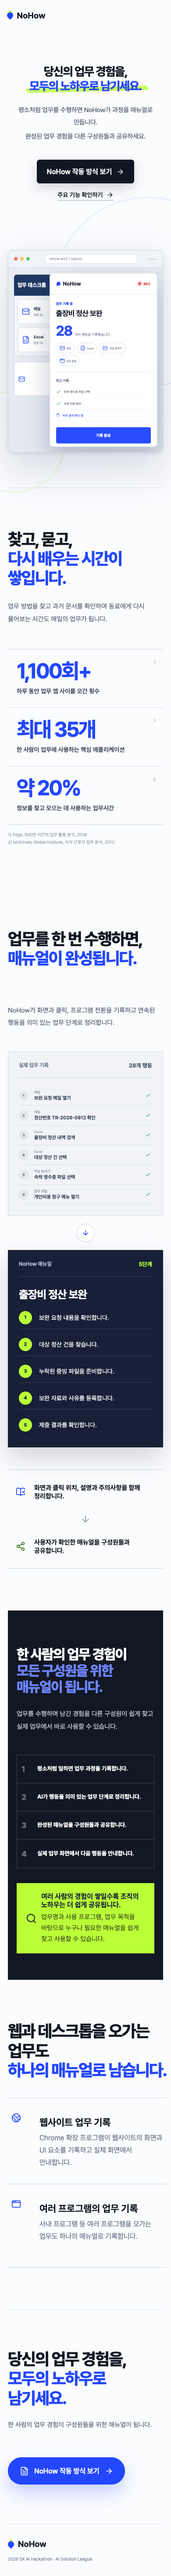
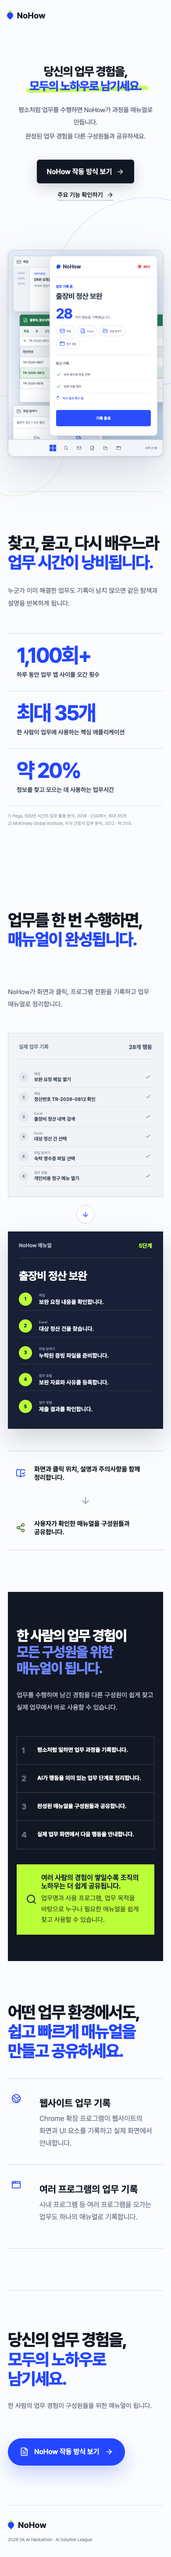
Refine NoHow problem and desktop story

diff --git a/src/styles.css b/src/styles.css
@@ -216,24 +216,33 @@ footer p { margin: 0; }footer small { justify-self: end; }
 .hero-section { grid-template-columns: .92fr 1.08fr; gap: 72px; }
 .hero-copy h1 { font-size: clamp(39px, 3.35vw, 51px); line-height: 1.14; }
 .hero-copy h1 .hero-highlight { font-size: 1em; line-height: inherit; }
-.nohow-browser-body { background: #e8ecf3; }
-.nohow-desktop-preview { position: absolute; inset: 0; padding: 24px 328px 24px 22px; color: #263247; background: linear-gradient(145deg, #e9edf3, #dfe5ed); }
-.desktop-preview-head { height: 48px; display: flex; align-items: center; justify-content: space-between; padding: 0 13px; color: #fff; background: #18335f; border-radius: 6px 6px 0 0; font-size: 10px; }
-.desktop-preview-head b { font-size: 12px; }
-.desktop-preview-head span { display: flex; align-items: center; gap: 6px; color: #dbe4f2; font-size: 8px; }
-.desktop-preview-head i { width: 7px; height: 7px; border-radius: 50%; background: #ff5d5d; box-shadow: 0 0 0 4px rgba(255,93,93,.14); }
-.desktop-app-grid { display: grid; grid-template-columns: 1fr 1fr; gap: 8px; padding: 13px; border: 1px solid #c8d0dc; border-top: 0; background: #f5f7fa; }
-.desktop-app-grid article { min-width: 0; min-height: 72px; display: flex; align-items: center; gap: 9px; padding: 11px; border: 1px solid #d5dbe5; background: #fff; box-shadow: 0 4px 12px rgba(33,48,78,.04); }
-.desktop-app-grid article svg { flex: 0 0 auto; color: var(--blue); }
-.desktop-app-grid article div { min-width: 0; display: grid; gap: 4px; }
-.desktop-app-grid article b { font-size: 9px; }
-.desktop-app-grid article small { overflow: hidden; color: #7c8799; font-size: 7px; text-overflow: ellipsis; white-space: nowrap; }
-.desktop-request-card { margin-top: 13px; min-height: 78px; display: flex; align-items: center; gap: 10px; padding: 13px; border: 1px solid #ccd4df; background: #fff; }
-.desktop-request-card > svg { flex: 0 0 auto; color: var(--blue); }
-.desktop-request-card div { min-width: 0; display: grid; gap: 5px; }
-.desktop-request-card b { overflow: hidden; font-size: 8px; text-overflow: ellipsis; white-space: nowrap; }
-.desktop-request-card span { color: #7d8796; font-size: 7px; }
-.nohow-capture-panel { position: absolute; top: 17px; right: 17px; bottom: 17px; width: 294px; z-index: 2; overflow: hidden; border: 1px solid #d5dbe5; border-radius: 9px; background: #fff; box-shadow: 0 20px 55px rgba(12,24,54,.25); }
+.windows-desktop-frame { position: relative; width: 100%; height: 565px; overflow: hidden; border: 1px solid #bcc7d6; border-radius: 13px; background: #dce7f4; box-shadow: 0 35px 90px rgba(29,47,92,.18), 0 3px 9px rgba(18,24,39,.08); transform: perspective(1500px) rotateY(-2deg) rotateX(1deg); }
+.windows-desktop-surface { position: absolute; inset: 0; overflow: hidden; color: #263247; background: radial-gradient(circle at 13% 18%, rgba(255,255,255,.8), transparent 24%), linear-gradient(138deg, #d9e8f7 0%, #eef4fa 47%, #b9d3ec 100%); }
+.windows-window { position: absolute; overflow: hidden; border: 1px solid #bfc9d6; border-radius: 6px; background: #fff; box-shadow: 0 12px 30px rgba(28,47,74,.2); font-size: 7px; }
+.windows-titlebar { height: 26px; display: flex; align-items: center; justify-content: space-between; padding: 0 8px; color: #3e4959; background: #f5f6f8; border-bottom: 1px solid #d9dee6; }
+.windows-titlebar > span { display: flex; align-items: center; gap: 5px; font-weight: 650; }
+.windows-titlebar small { color: #7d8795; font: 7px Arial, sans-serif; letter-spacing: .03em; }
+.window-mail { left: 17px; top: 16px; width: 315px; height: 128px; z-index: 1; }
+.mail-mock-body { height: calc(100% - 26px); display: grid; grid-template-columns: 38px 1fr; }
+.mail-mock-body aside { padding: 10px; background: #eef2f7; border-right: 1px solid #d8dee7; }
+.mail-mock-body aside i { display: block; height: 5px; margin-bottom: 7px; background: #c8d0dc; border-radius: 4px; }
+.mail-mock-body article { padding: 10px; display: grid; align-content: start; gap: 5px; }
+.mail-mock-body article small { color: var(--blue); }.mail-mock-body article b { font-size: 8px; }.mail-mock-body article p { margin: 0; color: #747f8f; }
+.window-excel { left: 44px; top: 151px; width: 360px; height: 201px; z-index: 3; }
+.excel-titlebar { color: #fff; background: #217346; border-color: #1d6740; }
+.excel-titlebar small { color: rgba(255,255,255,.8); }
+.excel-ribbon { height: 24px; display: flex; align-items: center; gap: 15px; padding: 0 9px; color: #526073; background: #f5f7f8; border-bottom: 1px solid #d5dbe3; }
+.excel-ribbon b { color: #217346; }.excel-formula { height: 22px; padding: 5px 9px; color: #617084; border-bottom: 1px solid #d8dee6; }
+.window-excel table { width: 100%; border-collapse: collapse; }.window-excel th,.window-excel td { padding: 7px 6px; border: 1px solid #d8dde5; text-align: left; }.window-excel th { color: #526071; background: #eef1f4; }.window-excel .excel-selected td { color: #1c5e3b; background: #e6f4eb; border-color: #7ab996; font-weight: 700; }
+.window-explorer { left: 18px; top: 369px; width: 205px; height: 130px; z-index: 4; }
+.explorer-path { height: 26px; padding: 8px; color: #6d7888; border-bottom: 1px solid #d9dfe7; }
+.explorer-files { display: grid; grid-template-columns: 1fr 1fr; gap: 6px; padding: 9px; }
+.explorer-files span { min-width: 0; display: grid; place-items: center; gap: 4px; padding: 7px 3px; color: #687486; text-align: center; }
+.explorer-files span.selected { color: var(--blue); background: #e9efff; outline: 1px solid #afc0ff; }
+.window-portal { left: 229px; top: 367px; width: 204px; height: 133px; z-index: 4; }
+.portal-titlebar { color: #fff; background: #18335f; border-color: #18335f; }.portal-titlebar small { color: rgba(255,255,255,.75); }
+.portal-mock-body { padding: 9px; display: grid; gap: 5px; }.portal-mock-body small { color: #7a8595; }.portal-mock-body b { font-size: 9px; }.portal-mock-body span { color: var(--blue); }.portal-mock-body button { height: 22px; border: 0; color: #fff; background: var(--blue); font-size: 7px; }
+.nohow-capture-panel { position: absolute; top: 17px; right: 17px; bottom: 52px; width: 294px; z-index: 10; overflow: hidden; border: 1px solid #d5dbe5; border-radius: 9px; background: #fff; box-shadow: 0 20px 55px rgba(12,24,54,.25); }
 .capture-panel-head { height: 48px; display: flex; align-items: center; justify-content: space-between; padding: 0 15px; border-bottom: 1px solid #e5e9ef; }
 .capture-live { display: flex; align-items: center; gap: 5px; color: #d84747; font-size: 8px; font-weight: 800; }
 .capture-live i { width: 7px; height: 7px; border-radius: 50%; background: #ef4f4f; box-shadow: 0 0 0 4px #fde7e7; }
@@ -253,16 +262,19 @@ footer p { margin: 0; }footer small { justify-self: end; }
 .capture-recent p.is-current { color: var(--blue); }
 .capture-recent p.is-current span { width: 8px; height: 8px; border: 2px solid #cbd4ff; border-top-color: var(--blue); border-radius: 50%; }
 .capture-panel-content > button { width: 100%; height: 37px; border: 0; border-radius: 4px; color: #fff; background: var(--blue); font-size: 9px; font-weight: 650; }
+.windows-taskbar { position: absolute; left: 0; right: 0; bottom: 0; height: 38px; z-index: 12; display: flex; align-items: center; justify-content: center; gap: 15px; color: #36516c; background: rgba(246,249,252,.92); border-top: 1px solid rgba(154,170,188,.55); box-shadow: 0 -5px 18px rgba(55,81,109,.08); backdrop-filter: blur(12px); }
+.windows-taskbar > svg { width: 15px; height: 15px; padding: 2px; border-radius: 3px; background: rgba(255,255,255,.75); }
+.windows-taskbar time { position: absolute; right: 13px; font-size: 7px; }
+.windows-start { width: 15px; height: 15px; display: grid; grid-template-columns: 1fr 1fr; gap: 1px; }
+.windows-start span { background: var(--blue); }
 
-.friction-section { grid-template-columns: .75fr 1.25fr; align-items: center; }
+.friction-section { grid-template-columns: .82fr 1.18fr; align-items: center; }
 .friction-copy .accent-line { color: var(--blue); }
 .friction-data { min-width: 0; }
-.friction-metrics { display: grid; grid-template-columns: repeat(3, 1fr); border-top: 1px solid #cfd6e1; border-bottom: 1px solid #cfd6e1; }
-.friction-metrics article { min-height: 208px; position: relative; padding: 31px 23px 25px; border-right: 1px solid #d7dde6; }
-.friction-metrics article:last-child { border-right: 0; }
-.friction-metrics strong { display: block; color: var(--blue); font-size: clamp(38px, 3.6vw, 54px); line-height: 1; letter-spacing: -.06em; white-space: nowrap; }
-.friction-metrics p { margin: 25px 0 0; color: #3e495c; font-size: 14px; font-weight: 650; line-height: 1.55; }
-.friction-metrics sup { position: absolute; top: 23px; right: 17px; color: #a5adba; font-size: 10px; }
+.friction-metrics { border-top: 1px solid #cfd6e1; }
+.friction-metrics article { min-height: 106px; display: grid; grid-template-columns: minmax(175px, .72fr) 1fr; gap: 28px; align-items: center; padding: 20px 18px; border-bottom: 1px solid #d7dde6; }
+.friction-metrics strong { display: block; color: var(--blue); font-size: clamp(39px, 3.7vw, 56px); line-height: 1; letter-spacing: -.06em; white-space: nowrap; }
+.friction-metrics p { margin: 0; color: #3e495c; font-size: 15px; font-weight: 650; line-height: 1.55; }
 .metric-sources { margin: 14px 0 0; padding: 0; list-style: none; color: #9aa3b1; font-size: 11px; line-height: 1.7; }
 .metric-sources a:hover { color: #687386; text-decoration: underline; text-underline-offset: 2px; }
 
@@ -277,9 +289,16 @@ footer p { margin: 0; }footer small { justify-self: end; }
 .event-list svg { color: #3b9a69; }
 .manual-card h3 { margin: 25px 0 13px; }
 .manual-card .focus-step-list p { min-height: 54px; }
+.manual-card .focus-step-list p > span { display: grid; gap: 3px; }
+.manual-card .focus-step-list small { color: #93a3bf; font-size: 8px; }
+.manual-card .focus-step-list b { color: #f2f5fa; font-size: 13px; font-weight: 650; }
 
 .learning-heading h2 .accent-line { color: #6d85ff; }
+.platform-section { grid-template-columns: 1fr; gap: 66px; }
+.platform-heading { align-items: center; text-align: center; }
 .platform-heading h2 { font-size: clamp(36px, 3.05vw, 47px); }
+.platform-list { display: grid; grid-template-columns: 1fr 1fr; }
+.platform-list article:first-child { border-right: 1px solid #cfd6e1; }
 
 /* Demo frame */
 .demo-shell { background: #e8ecf2; height: 100vh; min-width: 1100px; overflow: hidden; font-family: 'Pretendard Variable', Pretendard, sans-serif; }
@@ -376,7 +395,7 @@ footer p { margin: 0; }footer small { justify-self: end; }
   .demo-video-heading h2 { white-space: normal; }
   .learning-section { padding-left: 50px; padding-right: 50px; }
   .learning-flow { grid-template-columns: 1fr; }
-  .friction-metrics article { min-height: 176px; }
+  .friction-metrics article { min-height: 106px; }
 }
 @media (max-width: 700px) {
   .landing-nav { height: 70px; }.nav-links a { display: none; }.hero-section { width: calc(100% - 36px); padding: 55px 0 80px; min-height: 0; }.hero-copy h1 { font-size: 44px; }.hero-description { font-size: 15px; }.hero-actions { flex-direction: column; gap: 18px; }.browser-body { height: 420px; }.preview-panel { width: 75%; }.legacy-mini-body { grid-template-columns: 82px 1fr; }.human-badge { right: -4px; }
@@ -392,16 +411,15 @@ footer p { margin: 0; }footer small { justify-self: end; }
   .learning-heading h2 { font-size: 32px; }
   .platform-section { gap: 40px; }.platform-list article { padding-left: 8px; padding-right: 8px; }
   .final-cta-copy > p { font-size: 15px; }.final-cta-copy > p span { margin-bottom: 7px; }
-  .nohow-desktop-preview { padding: 16px 70% 16px 13px; }
-  .desktop-preview-head { padding: 0 8px; }.desktop-preview-head span { display: none; }
-  .desktop-app-grid { grid-template-columns: 1fr; padding: 8px; }.desktop-app-grid article { min-height: 56px; padding: 8px; }.desktop-app-grid article:nth-child(n+3) { display: none; }
-  .desktop-request-card { padding: 9px; }.desktop-request-card div { display: none; }
-  .nohow-capture-panel { top: 12px; right: 12px; bottom: 12px; width: 70%; }
+  .windows-desktop-frame { height: 470px; transform: none; }
+  .window-mail { left: 10px; top: 12px; }.window-excel { left: 25px; top: 145px; }.window-explorer { left: 10px; top: 352px; }.window-portal { display: none; }
+  .nohow-capture-panel { top: 12px; right: 12px; bottom: 46px; width: 70%; }
   .capture-panel-content { padding: 16px 14px; }.capture-panel-content > h3 { font-size: 17px; }.capture-count { margin: 14px 0 11px; }.capture-count strong { font-size: 32px; }
   .capture-apps span { font-size: 6px; }.capture-recent { margin: 13px 0; }.capture-recent p { min-height: 27px; font-size: 7px; }
-  .friction-metrics { grid-template-columns: 1fr; }.friction-metrics article { min-height: 132px; border-right: 0; border-bottom: 1px solid #d7dde6; padding: 25px 20px; }.friction-metrics article:last-child { border-bottom: 0; }.friction-metrics strong { font-size: 48px; }.friction-metrics p { margin-top: 12px; }.metric-sources { font-size: 10px; }
+  .friction-metrics article { min-height: 0; grid-template-columns: 1fr; gap: 10px; padding: 25px 20px; }.friction-metrics strong { font-size: 48px; }.friction-metrics p { font-size: 14px; }.metric-sources { font-size: 10px; }
   .event-capture-card,.manual-card { min-height: 0; }.event-list p { min-height: 45px; }.event-list p:nth-child(n+7) { display: none; }.manual-card .focus-step-list p { min-height: 51px; }
   .learning-flow h3 { white-space: normal; }
+  .platform-heading { align-items: flex-start; text-align: left; }.platform-list { grid-template-columns: 1fr; }.platform-list article:first-child { border-right: 0; }
   footer { width: calc(100% - 36px); grid-template-columns: 1fr; gap: 9px; padding: 30px 0; }footer small { justify-self: start; }.browser-frame { transform: none; }
 }
 

diff --git a/src/Landing.tsx b/src/Landing.tsx
@@ -34,11 +34,11 @@ const capturedEvents = [
 ]
 
 const manualSteps = [
-  '보완 요청 내용을 확인합니다.',
-  '대상 정산 건을 찾습니다.',
-  '누락된 증빙 파일을 준비합니다.',
-  '보완 자료와 사유를 등록합니다.',
-  '제출 결과를 확인합니다.',
+  ['메일', '보완 요청 내용을 확인합니다.'],
+  ['Excel', '대상 정산 건을 찾습니다.'],
+  ['파일 탐색기', '누락된 증빙 파일을 준비합니다.'],
+  ['업무 포털', '보완 자료와 사유를 등록합니다.'],
+  ['업무 포털', '제출 결과를 확인합니다.'],
 ]
 
 const capabilities = [
@@ -89,30 +89,37 @@ export function Landing() {
         <div className="hero-product hero-reveal hero-reveal-late" aria-label="NoHow 업무 기록 화면 미리보기">
           <div className="hero-orbit hero-orbit-one" />
           <div className="hero-orbit hero-orbit-two" />
-          <div className="browser-frame">
-            <div className="browser-bar">
-              <div className="browser-dots"><i /><i /><i /></div>
-              <div className="browser-address">nohow.work / capture</div>
-              <div className="browser-menu">•••</div>
-            </div>
-            <div className="browser-body nohow-browser-body">
-              <div className="nohow-desktop-preview">
-                <div className="desktop-preview-head">
-                  <b>업무 데스크톱</b>
-                  <span><i /> 업무 기록 중 · 00:18</span>
+          <div className="windows-desktop-frame">
+            <div className="windows-desktop-surface">
+              <div className="windows-window window-mail">
+                <div className="windows-titlebar"><span><Mail size={10} /> 메일</span><small>—  □  ×</small></div>
+                <div className="mail-mock-body">
+                  <aside><i /><i /><i /></aside>
+                  <article><small>재무지원팀</small><b>[보완 요청] TR-2026-0812 출장비 정산</b><p>숙박비 증빙이 누락되었습니다.</p></article>
                 </div>
-                <div className="desktop-app-grid">
-                  {workApps.map(({ icon: Icon, name, detail }) => (
-                    <article key={name}>
-                      <Icon size={18} />
-                      <div><b>{name}</b><small>{detail}</small></div>
-                    </article>
-                  ))}
-                </div>
-                <div className="desktop-request-card">
-                  <Mail size={15} />
-                  <div><b>[보완 요청] TR-2026-0812 출장비 정산</b><span>숙박비 증빙을 첨부해 주세요.</span></div>
-                </div>
+              </div>
+
+              <div className="windows-window window-excel">
+                <div className="windows-titlebar excel-titlebar"><span><FileSpreadsheet size={10} /> 출장비_정산내역_8월.xlsx</span><small>—  □  ×</small></div>
+                <div className="excel-ribbon"><b>파일</b><span>홈</span><span>삽입</span><span>데이터</span><span>검토</span></div>
+                <div className="excel-formula">fx · TR-2026-0812</div>
+                <table><tbody>
+                  <tr><th>정산번호</th><th>항목</th><th>금액</th><th>상태</th></tr>
+                  <tr><td>TR-2026-0807</td><td>교통비</td><td>68,000</td><td>완료</td></tr>
+                  <tr className="excel-selected"><td>TR-2026-0812</td><td>숙박비</td><td>184,000</td><td>보완 요청</td></tr>
+                  <tr><td>TR-2026-0816</td><td>식비</td><td>42,000</td><td>검토 중</td></tr>
+                </tbody></table>
+              </div>
+
+              <div className="windows-window window-explorer">
+                <div className="windows-titlebar"><span><FolderOpen size={10} /> 파일 탐색기</span><small>—  □  ×</small></div>
+                <div className="explorer-path">출장비 정산 〉 부산 출장</div>
+                <div className="explorer-files"><span><FolderOpen size={14} /> 교통비</span><span className="selected"><FileText size={14} /> 숙박_영수증.pdf</span></div>
+              </div>
+
+              <div className="windows-window window-portal">
+                <div className="windows-titlebar portal-titlebar"><span><AppWindow size={10} /> 통합업무포털</span><small>—  □  ×</small></div>
+                <div className="portal-mock-body"><small>비용·자산 〉 개인비용 청구</small><b>정산 보완 요청</b><span>TR-2026-0812</span><button>증빙 첨부</button></div>
               </div>
 
               <aside className="nohow-capture-panel">
@@ -136,6 +143,16 @@ export function Landing() {
                   <button>기록 종료</button>
                 </div>
               </aside>
+
+              <div className="windows-taskbar" aria-hidden="true">
+                <i className="windows-start"><span /><span /><span /><span /></i>
+                <Search size={13} />
+                <Mail size={13} />
+                <FileSpreadsheet size={13} />
+                <FolderOpen size={13} />
+                <AppWindow size={13} />
+                <time>오후 2:18</time>
+              </div>
             </div>
           </div>
         </div>
@@ -143,18 +160,18 @@ export function Landing() {
 
       <section className="friction-section" id="problem">
         <div className="friction-copy">
-          <h2>찾고, 묻고,<br /><span className="accent-line">다시 배우는 시간이 쌓입니다.</span></h2>
-          <p>업무 방법을 찾고 과거 문서를 확인하며 동료에게 다시 물어보는 시간도 매일의 업무가 됩니다.</p>
+          <h2>찾고, 묻고, 다시 배우느라<br /><span className="accent-line">업무 시간이 낭비됩니다.</span></h2>
+          <p>누군가 이미 해결한 업무도 기록이 남지 않으면 같은 탐색과 설명을 반복하게 됩니다.</p>
         </div>
         <div className="friction-data">
           <div className="friction-metrics">
-            <article><strong>1,100회+</strong><p>하루 동안 업무 앱 사이를 오간 횟수</p><sup>1</sup></article>
-            <article><strong>최대 35개</strong><p>한 사람이 업무에 사용하는 핵심 애플리케이션</p><sup>1</sup></article>
-            <article><strong>약 20%</strong><p>정보를 찾고 모으는 데 사용하는 업무시간</p><sup>2</sup></article>
+            <article><strong>1,100회+</strong><p>하루 동안 업무 앱 사이를 오간 횟수</p></article>
+            <article><strong>최대 35개</strong><p>한 사람이 업무에 사용하는 핵심 애플리케이션</p></article>
+            <article><strong>약 20%</strong><p>정보를 찾고 모으는 데 사용하는 업무시간</p></article>
           </div>
           <ol className="metric-sources" aria-label="통계 출처">
-            <li>1) <a href="https://www.pega.com/about/news/press-releases/research-reveals-employees-switch-apps-over-1100-times-day" target="_blank" rel="noreferrer">Pega, 500만 시간의 업무 활동 분석, 2018</a></li>
-            <li>2) <a href="https://www.mckinsey.com/industries/technology-media-and-telecommunications/our-insights/capturing-business-value-with-social-technologies" target="_blank" rel="noreferrer">McKinsey Global Institute, 지식 근로자 업무 분석, 2012</a></li>
+            <li>1) <a href="https://www.pega.com/about/news/press-releases/research-reveals-employees-switch-apps-over-1100-times-day" target="_blank" rel="noreferrer">Pega, 500만 시간의 업무 활동 분석, 2018 · 1,100회+, 최대 35개</a></li>
+            <li>2) <a href="https://www.mckinsey.com/industries/technology-media-and-telecommunications/our-insights/capturing-business-value-with-social-technologies" target="_blank" rel="noreferrer">McKinsey Global Institute, 지식 근로자 업무 분석, 2012 · 약 20%</a></li>
           </ol>
         </div>
       </section>
@@ -162,7 +179,7 @@ export function Landing() {
       <section className="focus-section" id="solution">
         <div className="focus-heading">
           <h2>업무를 한 번 수행하면,<br /><span className="accent-line">매뉴얼이 완성됩니다.</span></h2>
-          <p>NoHow가 화면과 클릭, 프로그램 전환을 기록하고 연속된 행동을 의미 있는 업무 단계로 정리합니다.</p>
+          <p>NoHow가 화면과 클릭, 프로그램 전환을 기록하고 업무 매뉴얼로 정리합니다.</p>
         </div>
 
         <div className="focus-compare" aria-label="업무 기록과 NoHow 매뉴얼 비교">
@@ -179,8 +196,8 @@ export function Landing() {
             <div className="compare-title"><span>NoHow 매뉴얼</span><b>5단계</b></div>
             <h3>출장비 정산 보완</h3>
             <div className="focus-step-list">
-              {manualSteps.map((label, index) => (
-                <p key={label}><i>{index + 1}</i><span>{label}</span></p>
+              {manualSteps.map(([app, label], index) => (
+                <p key={label}><i>{index + 1}</i><span><small>{app}</small><b>{label}</b></span></p>
               ))}
             </div>
           </div>
@@ -213,7 +230,7 @@ export function Landing() {
 
       <section className="platform-section">
         <div className="platform-heading">
-          <h2>웹과 데스크톱을 오가는 업무도<br /><span className="accent-line keep-together">하나의 매뉴얼로 남습니다.</span></h2>
+          <h2>어떤 업무 환경에서도,<br /><span className="accent-line">쉽고 빠르게 매뉴얼을 만들고 공유하세요.</span></h2>
         </div>
         <div className="platform-list">
           <article>
